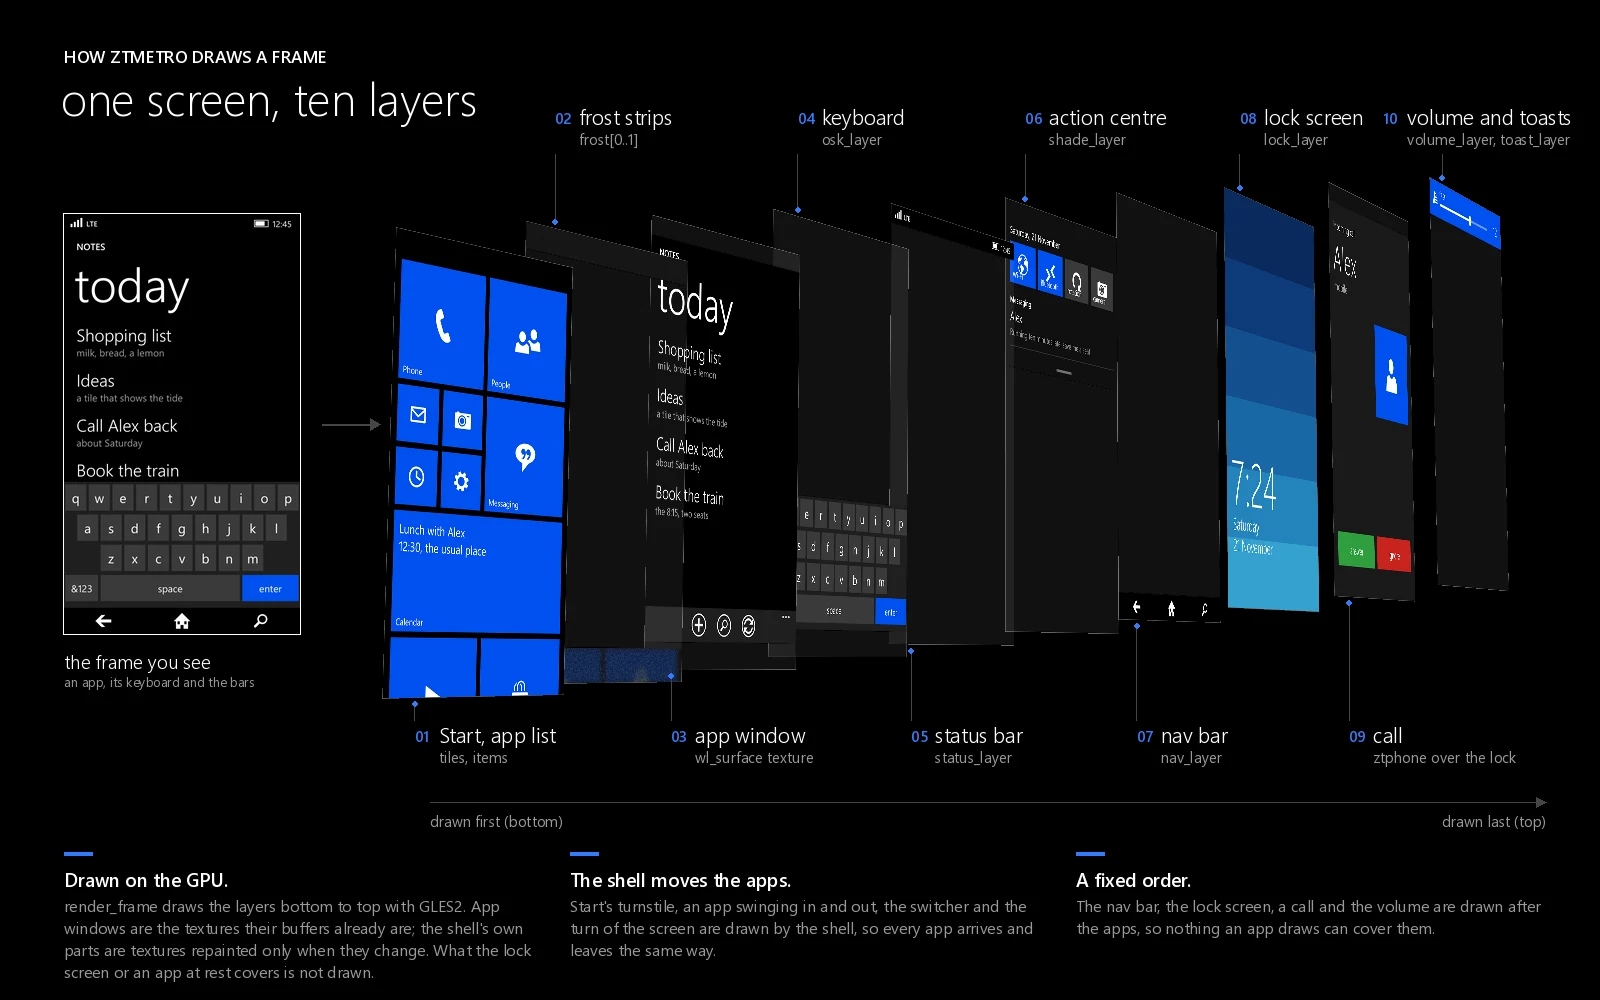
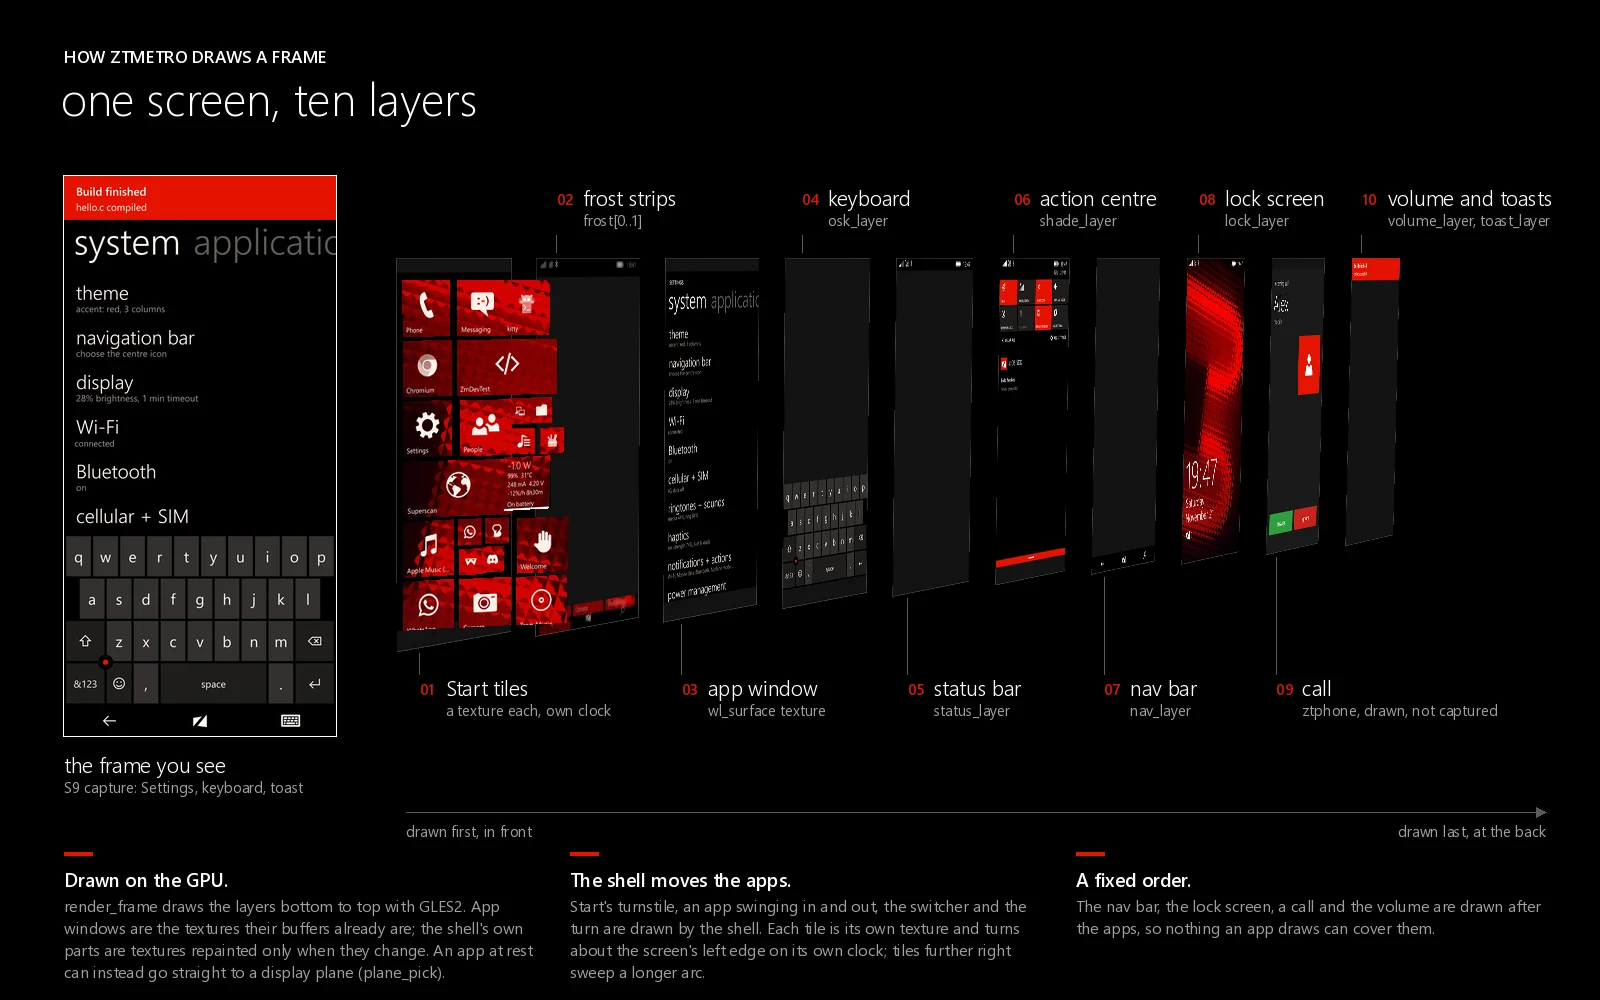
Docs: composition page with real S9 captures and the screen-edge turnstile (#4)

diff --git a/docs/composition.md b/docs/composition.md
@@ -4,10 +4,10 @@ ztMETRO is the ztOS Mobile shell and its Wayland compositor in one program. Ever
 
 <picture>
   <source media="(prefers-color-scheme: dark)" srcset="img/shell-layers-dark.webp">
-  <img src="img/shell-layers-light.webp" width="800" alt="A ztMETRO frame at the left and its ten layers spread out in perspective to the right, bottom to top: Start and the app list, frost strips, app window, keyboard, status bar, action centre, nav bar, lock screen, call, volume and toasts">
+  <img src="img/shell-layers-light.webp" width="800" alt="A ztMETRO frame captured on a Galaxy S9 at the left and its ten layers spread out in perspective to the right, layer 01 in front: Start and the app list, frost strips, app window, keyboard, status bar, action centre, nav bar, lock screen, call, volume and toasts">
 </picture>
 
-The picture is drawn with zrnui's controls (GLES2, offscreen, demo content) at the place and size ztMETRO gives each layer; it shows what each layer is, not the shell's own pixels. It is generated by `gen/layers.py` in [zrn-sdk-site](https://github.com/Zerone-Laboratories/zrn-sdk-site). The order and the names below come from `render_frame` in `ztmetro/ztmetro.c` of ztOSMobile, read on 21 November 2026. When the shell changes, check them again.
+The layers are screenshots of ztMETRO on a Galaxy S9, cut apart along the shell's own lines; layer 01, painted first, is in front, and Start is cut into its tiles, because each tile is its own texture that turns about the screen's left edge on its own clock. Wi-Fi and carrier names are covered and the action centre's notification is replaced with a demo one. The call screen is drawn with zrnui, not captured. The picture is generated by `gen/layers.py` in [zrn-sdk-site](https://github.com/Zerone-Laboratories/zrn-sdk-site). The order and the names below come from `render_frame` in `ztmetro/ztmetro.c` of ztOSMobile, read on 21 November 2026. When the shell changes, check them again.
 
 ## The order, bottom to top
 
@@ -16,7 +16,7 @@ A later layer covers an earlier one. The numbers are the picture's; a dash marks
 | # | Layer | What the shell draws | In the code |
 |---|---|---|---|
 | – | Background | The screen cleared to the shell background (white in Light, black in Dark). Only the gaps between Start's tiles show it. | `glClear`, `shell_bg_color` |
-| 01 | Start and the app list | The tiles, each placed in 3D for the turnstile, and the list beside them. Not drawn while an app at rest or the lock screen covers them. | tiles, items; skipped on `app_covers`, `lock_covers` |
+| 01 | Start and the app list | The tiles, each its own texture: for the turnstile each turns about the screen's left edge on its own clock; tiles further right sweep a longer arc (clocks by row from the bottom, small tiles early, the top-left last, a little jitter). And the list beside them. Not drawn while an app at rest or the lock screen covers them. | tiles, items; skipped on `app_covers`, `lock_covers` |
 | 02 | Frost strips | What of Start and the list passes under the status bar and the nav bar, blurred into two strips right after Start is drawn, and blurred again only when that changes. Each strip is laid just under its own bar (05 and 07), as its backing. Over an app the bars are opaque and there is no frost. | `frost_prepare`, `frost[0]`, `frost[1]` |
 | 03 | App window | The app's buffer, already a GPU texture, drawn as a quad between the bars. Or the switcher's cards, or the launch flip in landscape. | `draw_app_surface` |
 | – | Hyperscan | The shell's search page, when it is up. | `hyper_layer` |
